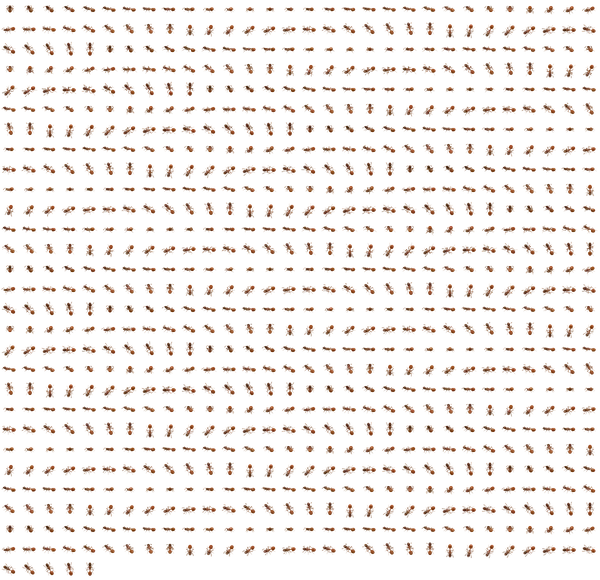
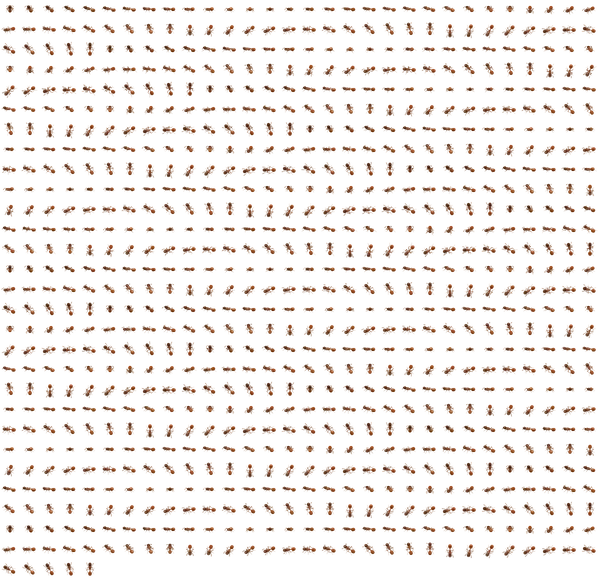
Fourmi rouge : atlas recuit et planche de marche refaite après la cinquième passe
S 199 Ko (1,3 Mo sur le GPU), L 437 Ko (5,5 Mo), 1300 cellules en 380 s,
derrière le verrou de insectes-suite (GATE_RAM 5.0, puis 4.4 pour la planche).

diff --git a/insectes/fourmi-rouge/ETAT.md b/insectes/fourmi-rouge/ETAT.md
@@ -121,7 +121,7 @@ Le juge reste **ko**. Les causes restantes sont dans les résidus 1 à 4.
   (`outils/simule.mjs`) donne :
   - en exploration, 8,7 mm/s (cible 8,5 à 9,6) et 159°/cm (cible 154 à 162) ;
   - en alarme, 21,6 mm/s (cible 18 à 25) et 91°/cm (cible 77 à 115).
-- **Atlas** : S 198 Ko (1,3 Mo sur le GPU), L 434 Ko (5,5 Mo) ; détail dans la section suivante.
+- **Atlas** : S 199 Ko (1,3 Mo sur le GPU), L 437 Ko (5,5 Mo) ; détail dans la section suivante.
 - **Démo** :
   - adresse : `insectes/demo/index.html?n=0&fourmi-rouge=8&taille=3` ;
   - serveur : `insectes-06`, `python -m http.server 8826`, déclaré dans `.claude/launch.json` du dossier (non committé, propre au
@@ -129,20 +129,17 @@ Le juge reste **ko**. Les causes restantes sont dans les résidus 1 à 4.
   - les fourmis marchent sur la table au pied du vase, dans le canvas de devant.
 
 ## Atlas
-Cuit le 2026-10-24 (`outils/cuisson.mjs fourmi-rouge` puis `outils/atlas.py`, derrière le verrou corrigé de `ch/insectes-suite`,
-`GATE_MAX=1`) : 1300 cellules en 536 s.
+Recuit le 2026-10-24 après la cinquième passe de forme (`outils/cuisson.mjs fourmi-rouge` puis `outils/atlas.py`, derrière le verrou corrigé de `ch/insectes-suite`,
+`GATE_MAX=1`) : 1300 cellules en 380 s.
 
-**Attention : cet atlas date d'avant la cinquième passe de forme.** La recuisson (`GATE_RAM=5.0`) est en file au verrou. À
-11 h 58 il restait 1,5 Go de RAM libre, pris par l'application et les sessions, et aucun rendu ne tournait. Les poids ci-dessous
-seront remplacés au commit de la recuisson.
 
 | LOD | cellule | azimuts | cellules | feuille | WebP | GPU |
 |---|---|---|---|---|---|---|
-| S | 20 px | 15° | 845 | 600 × 580 | 198 Ko | 1,3 Mo |
-| L | 56 px | 30° | 455 | 1232 × 1176 | 434 Ko | 5,5 Mo |
+| S | 20 px | 15° | 845 | 600 × 580 | 199 Ko | 1,3 Mo |
+| L | 56 px | 30° | 455 | 1232 × 1176 | 437 Ko | 5,5 Mo |
 
 - **Poses** : `pose`, `marche` (8 dessins) et `palpe` (4 dessins), aux 5 élévations (−15, 10, 35, 60, 90°).
-- **Total** : 632 Ko à télécharger, 6,8 Mo sur le GPU.
+- **Total** : 636 Ko à télécharger, 6,8 Mo sur le GPU.
 - **Dans git** : les feuilles WebP, `fourmi-rouge.json` et `cells.json`. Les cellules PNG (`atlas/cells/`, 7,2 Mo) restent ignorées,
   comme pour les autres espèces.
 
